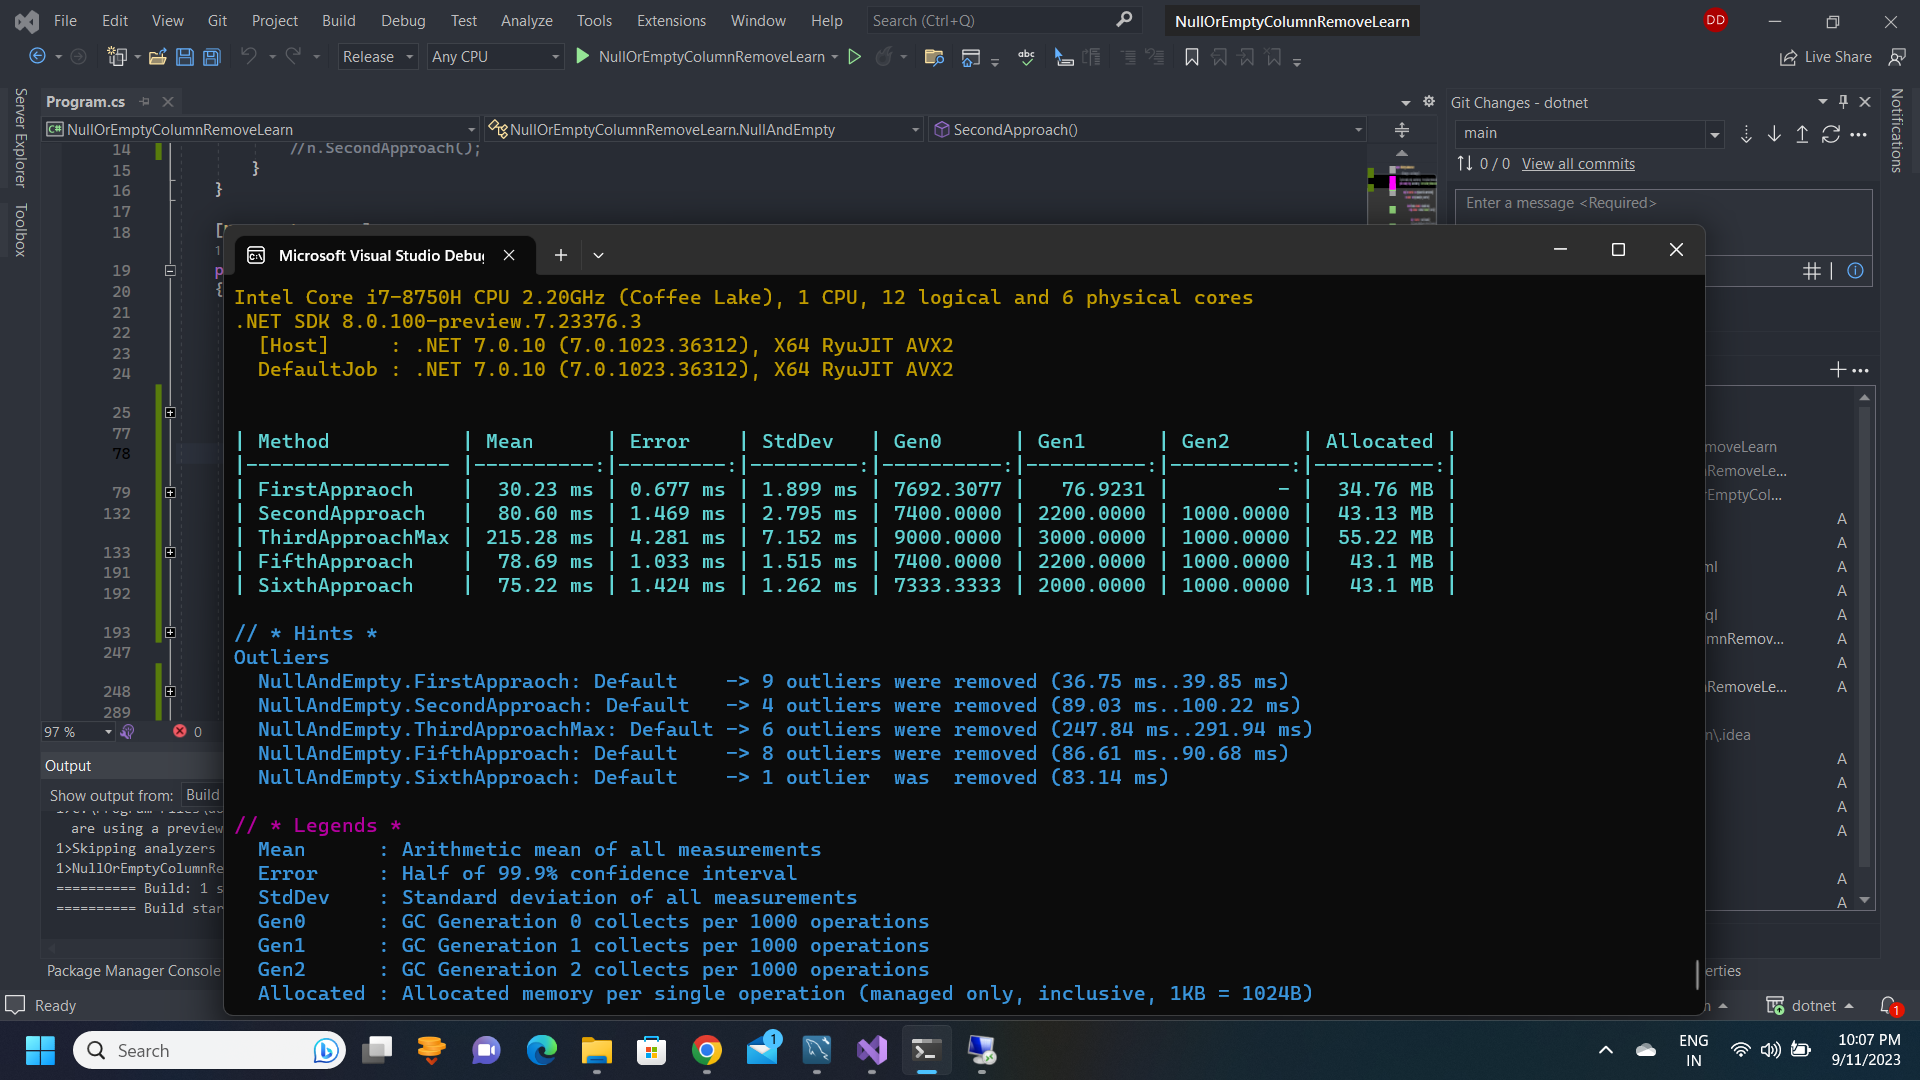
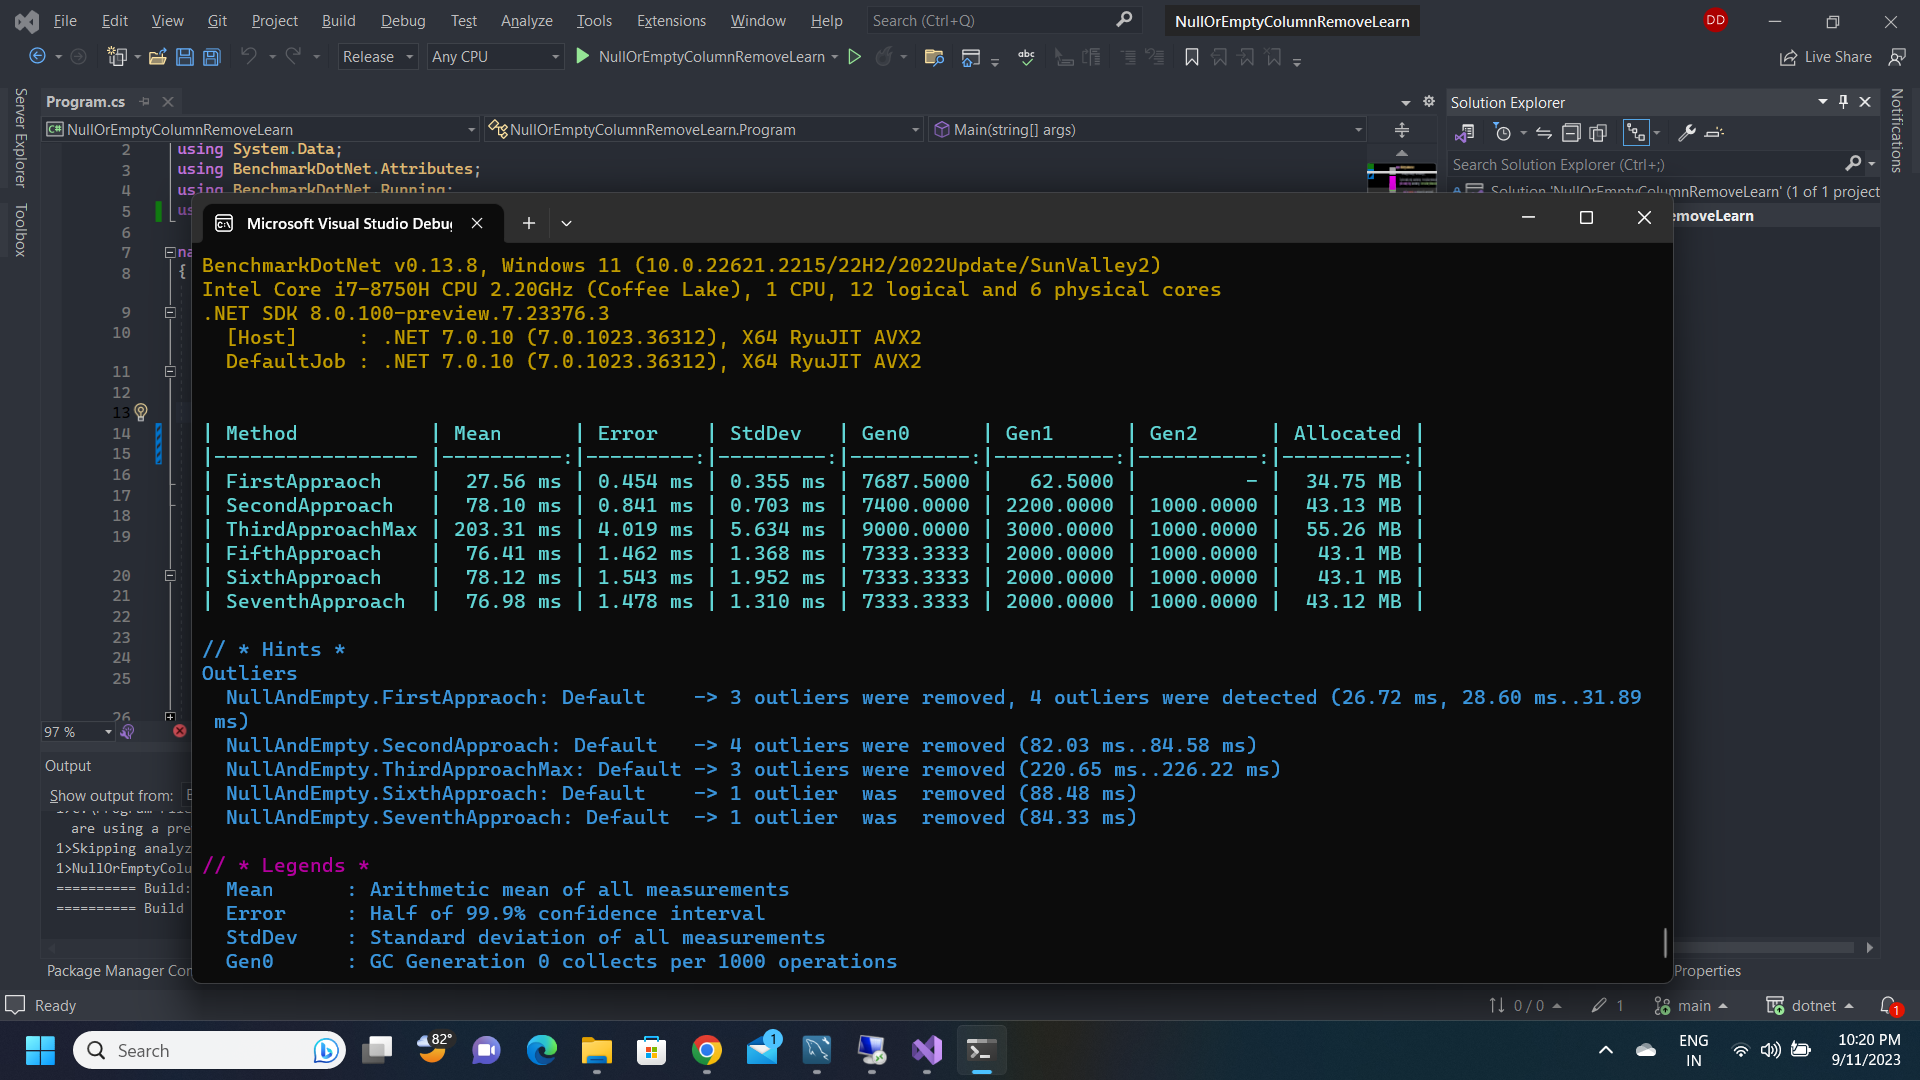
Add Parallel Processing approach

diff --git a/code/NullOrEmptyColumnRemoveLearn/NullOrEmptyColumnRemoveLearn/Program.cs b/code/NullOrEmptyColumnRemoveLearn/NullOrEmptyColumnRemoveLearn/Program.cs
@@ -2,6 +2,7 @@
 using System.Data;
 using BenchmarkDotNet.Attributes;
 using BenchmarkDotNet.Running;
+using System.Threading.Tasks;
 
 namespace NullOrEmptyColumnRemoveLearn
 {
@@ -10,8 +11,8 @@ namespace NullOrEmptyColumnRemoveLearn
         public static void Main(string[] args)
         {
             BenchmarkRunner.Run<NullAndEmpty>();
-            //NullAndEmpty n = new NullAndEmpty();
-            //n.SecondApproach();
+            //NullAndEmpty nullAndEmpty = new NullAndEmpty();
+            //nullAndEmpty.SeventhApproach();
         }
     }
 
@@ -353,6 +354,43 @@ namespace NullOrEmptyColumnRemoveLearn
                             Console.WriteLine($"Column '{column.ColumnName}' is not empty or NULL.");
                         }
                     }
+                }
+            }
+            catch (Exception ex)
+            {
+                Console.WriteLine($"An error occurred: {ex.Message}");
+            }
+        }
+
+        [Benchmark]
+        public void SeventhApproach()
+        {
+            string query = "SELECT * FROM student";
+            try
+            {
+                using (var connection = new MySqlConnection(_connectionString))
+                {
+                    connection.Open();
+                    var command = new MySqlCommand(query, connection);
+                    var reader = command.ExecuteReader();
+
+                    var dt = new DataTable();
+                    dt.Load(reader);
+
+                    Parallel.ForEach(dt.Columns.Cast<DataColumn>(), column =>
+                    {
+                        bool isColumnEmptyOrNull = dt.AsEnumerable()
+                            .All(row => row.IsNull(column) || string.IsNullOrWhiteSpace(row[column].ToString()));
+
+                        if (isColumnEmptyOrNull)
+                        {
+                            Console.WriteLine($"Column '{column.ColumnName}' is empty or contains NULL values.");
+                        }
+                        else
+                        {
+                            Console.WriteLine($"Column '{column.ColumnName}' is not empty or NULL.");
+                        }
+                    });
                 }
             }
             catch (Exception ex)
